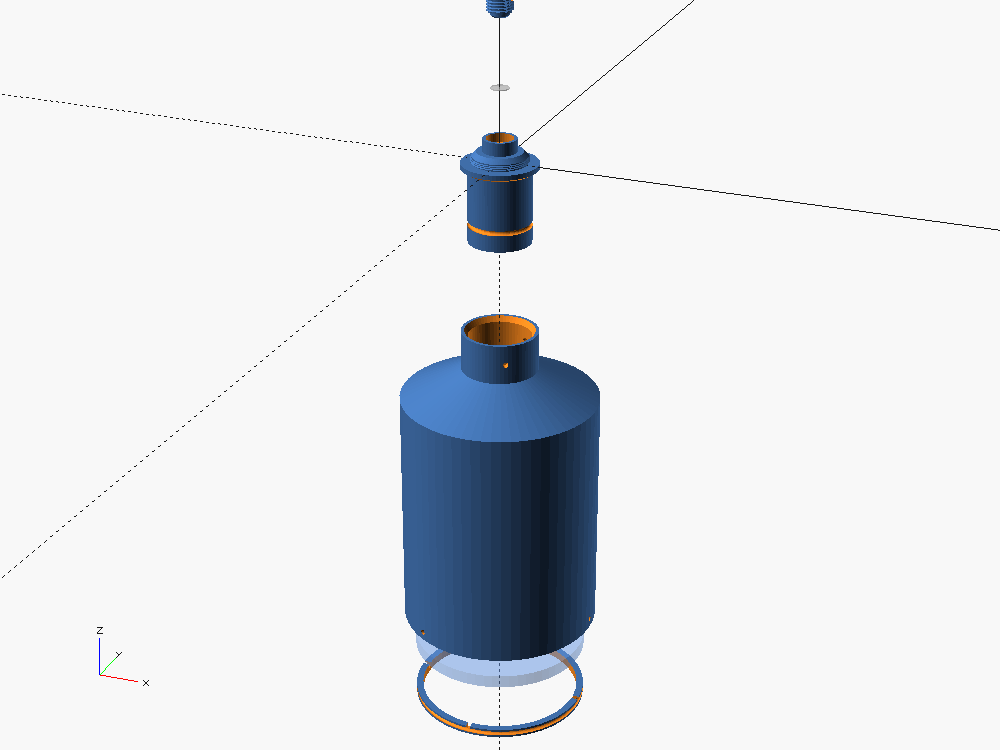
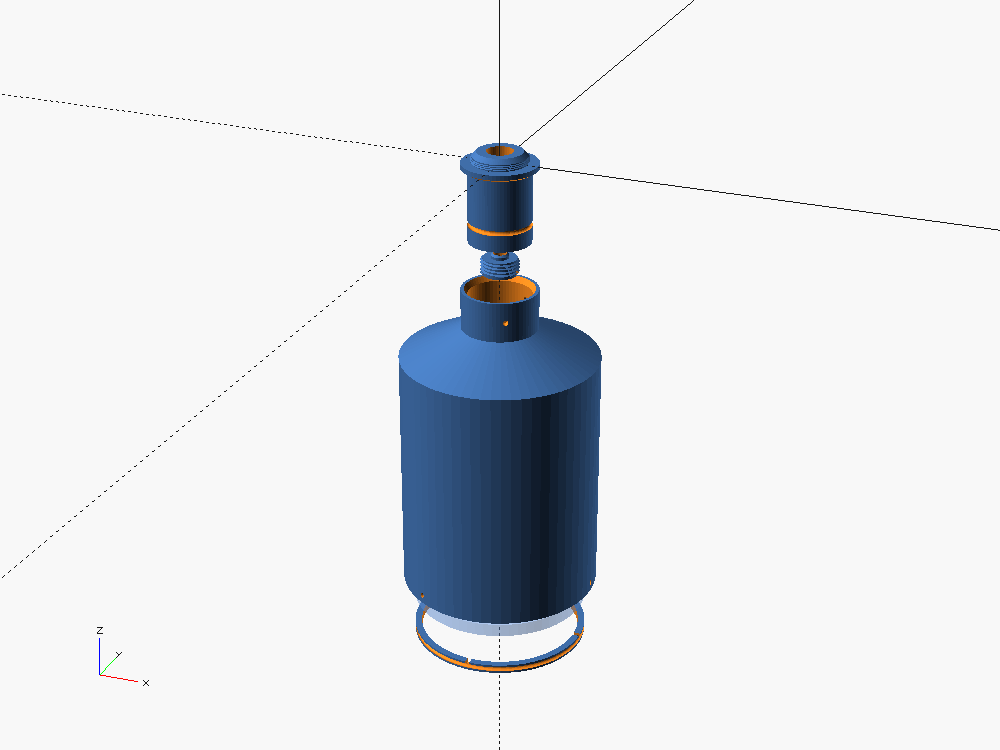
receiver: move the filter cell -Z of the seating plane (nothing into the camera)
The C-mount filter cell projected a Ø15 tube ~10 mm past the flange, through the
front plate's Ø16 bore and into the body cavity. That relied on a specific stock
front plate being clear and broke the body-modularity contract (a variant with a
filter drawer / IR-cut holder / thick plate behind the mount would collide), and
it made the receiver a poor C-mount citizen on non-mapscam cameras.

The filter is only 0.55 mm and the neck has ~30 mm of unused length, so the whole
cell now sits on the -Z (target/barrel) side of the seating plane, cut into the
neck root:

  +Z:  [ Ø12 clear bore through the bare thread ] -> detector   (nothing else +Z)
  -Z:  [ Ø6 field-stop/seat land ][ Ø8 filter ][ ring nose ][ funnel ]
       [ Ø17 retainer thread ] -> neck bore -> barrel

- filter_ring loads and turns from the -Z (barrel) end, down the Ø22 neck bore,
  before the barrel is plugged on. Same "zero clamping stress" nose/shoulder
  geometry, now mirrored.
- Ø17 retainer thread (5.3 mm wall in the neck) replaces the cramped Ø11.5 that
  the old Ø16-bore constraint forced; is_cmount no longer branches the cell.
- Applies to mount = "flange" too — it no longer projects into the body cavity
  either.
- thread_bore_d derived from the marginal-ray cone; new asserts for neck-wall
  fit, thread-wall fit, and cell vs the stem<->barrel joint.
- Dropped the filter_boss_* params; explode_gap 60 -> 40 (smaller stem).

make check green; stem renders 1 connected shell in both mounts; nothing of the
[…]

diff --git a/docs/receiver-optic.md b/docs/receiver-optic.md
@@ -6,9 +6,9 @@ It is its own component **type** (`components/receiver/*.toml`, `scad/lib/receiv
 like `lens`, because none of the camera sensor stack applies.
 
 ```
-  target <--[ Ø80 optic ]===== barrel =====(socket)[ neck ][ 1"-32 ]-- generic_29mm_c -- detector
-             f ≈ 150 mm    Ø90 tube, holds the optic   plugs in,   thread   camera        (BPW34 + AFE)
-                                                       3 screws   z = 0   808 nm filter here
+  target <--[ Ø80 optic ]===== barrel =====(socket)[ neck + filter cell ][ 1"-32 ]-- camera -- detector
+             f ≈ 150 mm    Ø90 tube, holds the optic   plugs in, 3 screws    thread  z = 0   (BPW34 + AFE)
+                                                       808 nm filter lives here (all -Z of z=0)
 ```
 
 The bought **Ø80 mm, f ≈ 150 mm** optic focuses the returned beam through a small
@@ -20,19 +20,21 @@ camera.
 **`mount = "C"` (default).** The `stem` ends in a **male 1"-32 thread** and screws
 straight into a stock `generic_29mm_c` front plate (`lens_mount_style = "thread"`) —
 the receiver is just a C-mount lens, no custom front plate. A Ø`shoulder_d` disc
-gives a finger grip and backstops the thread; the slim filter cell (Ø`filter_boss_d_c`
-≈ 15) passes through the front-plate's Ø16 bore and noses a few mm into the body
-cavity. It seats the same way a mapscam printed C-mount lens does; the camera shim
-stack trims focus. Thread this on **before** plugging the heavy `barrel` onto the
-neck. A Ø90 barrel on a printed 1"-32 thread is a long cantilever — plan on a barrel
-brace for anything but short bench runs, and a dab of thread-locker or a set screw so
-it can't back off under vibration.
+gives a finger grip and backstops the thread. **Nothing of the receiver reaches past
+the seating plane into the camera** — the bare thread is all that goes +Z, and the
+whole filter cell sits at -Z inside the neck root (see below). So the receiver is a
+clean C-mount citizen: it drops onto any C-mount camera, and mapscam body variants
+can put anything they like right behind the front plate. It seats the same way a
+mapscam printed C-mount lens does; the camera shim stack trims focus. A Ø90 barrel
+on a printed 1"-32 thread is a long cantilever — plan on a barrel brace for anything
+but short bench runs, and a dab of thread-locker or a set screw so it can't back off
+under vibration.
 
 **`mount = "flange"`.** The `stem` carries its own front plate — the same
 rectangular register + 4-corner M3 pattern as a camera `front_plate` (a bare
 `generic_29mm` body bolts straight on). Use this when you want the stiff bolted
 joint or a keyed orientation. Set `body_outer_x` / `body_outer_y` to that body's
-footprint.
+footprint. Same filter cell, same "nothing into the cavity" rule.
 
 ## Fixed focus
 
@@ -49,10 +51,11 @@ part and keeps the load path out of any moving joint.
 ## Coordinate convention
 
 Mirror of the camera: **`z = 0` is the seating plane** (the `"C"` shoulder, or the
-`"flange"` front face) that meets the camera, **+Z runs into the camera** (thread,
-filter cell, detector), the optics project to **−Z**, out toward the target.
-`stem.scad` is authored in this frame; `barrel.scad` is authored in its own frame
-(optic rear face at `z = 0`) and `dispatch.scad` places it at `−flange_to_optic`.
+`"flange"` front face) that meets the camera. Only the **bare thread** goes **+Z**
+(then the camera's own detector); the **filter cell and the optics are all at −Z**,
+out toward the target. `stem.scad` is authored in this frame; `barrel.scad` is
+authored in its own frame (optic rear face at `z = 0`) and `dispatch.scad` places it
+at `−flange_to_optic`.
 
 ## The stack (enforced in `scad/lib/receiver/params.scad`)
 
@@ -73,48 +76,51 @@ with it (asserted); push it down and the neck gets stubby.
 
 `assert()`s fail the render if: the clear aperture leaves no seat rim; a wall
 (barrel / stem / socket) is under `wall`; the neck bore vignettes the cone at the
-joint; the filter retainer thread doesn't fit the neck bore; `flange_to_optic`
-is too short for the barrel; or (`mount = "C"`) the filter cell is too fat to clear
-a stock Ø16 front-plate bore.
+joint; the retainer thread + wall don't fit the stem neck; the filter cell runs
+into the stem↔barrel joint; `thread_bore_d` leaves too little wall on the male
+thread; or `flange_to_optic` is too short for the barrel.
 
 ## Parts (`make vibrometer_80mm`)
 
 | Part | Prints | Notes |
 |---|---|---|
-| `stem` | 1 | camera interface (`"C"` male 1"-32 + grip shoulder, or `"flange"` register) + filter cell + Ø28 neck. Print shoulder/flange-down; no support. |
+| `stem` | 1 | camera interface (`"C"` male 1"-32 + grip shoulder, or `"flange"` register) + filter cell in the neck root + Ø28 neck. Print shoulder/flange-down; no support. |
 | `barrel` | 1 | Ø90 × ~145 mm; optic cell + tube + rear socket. Print optic-end-down. Big — budget time / filament. |
 | `lens_retainer` | 1 | plain ring, held by the barrel's 3 radial M3 set screws. |
-| `filter_ring` | 1 | top-hat: a Ø8.1 nose drops onto the filter, the threaded body engages the stem. Turn from the body side. |
+| `filter_ring` | 1 | top-hat: a Ø8.1 nose drops onto the filter, the Ø17 threaded body engages the stem. Turn from the −Z (barrel) end. |
 
 ## 808 nm filter cell
 
 The filter is **Ø8.0 × 0.55 mm glass** (808 nm narrow band-pass, CWL 808 ± 2 nm,
-HBW 25 nm, T > 85 %). It drops into a Ø8.6 pocket from the body-cavity side and
-seats front-face-down on the **Ø6 field stop shoulder** (`filter_clear_d`, which is
-also the FOV stop).
+HBW 25 nm, T > 85 %). The whole cell is cut into the **stem neck root, entirely on
+the −Z (target/barrel) side of the seating plane** — nothing projects toward the
+camera past the bare thread, so any body variant is free to put hardware right
+behind the front plate.
 
-The **`filter_ring`** is a top hat. The stem bore above the seat, going toward the
-body, is: `Ø8.6 pocket` → `funnel` → `Ø`fring_d` internal thread` → clearance → out
-the boss top. Drop the ring in nose-first from the body side and turn it with a flat
-screwdriver (top slot): its threaded body catches the stem thread and winds down. It
-seats when the **`fring_nose_h` = 2.0 mm nose meets the filter back face at the same
-instant the body shoulder bottoms on the funnel step** — so the filter is captured
-with *zero* clamping stress on the thin glass while the thread carries its full
-`fring_engage` engagement. A funnel at the pocket mouth centres the nose; the ring's
-Ø6 bore is the clear aperture. Assemble the whole cell before mounting the stem on
-the camera.
+Reading −Z from the seating plane (`z = 0`):
 
-The cell diameter (`filter_boss_d_c`) is set by `mount`:
+```
+[ Ø thread_bore_d clear bore, through the thread ]   z = 0 .. thread_engage  (+Z, toward detector)
+[ Ø6 field-stop / seat land ]                        z = -0.8 .. 0
+[ Ø8.0 filter ]  seats +Z-face-up on the land        z = -1.35 .. -0.8
+[ filter_ring Ø8.1 nose ]                            z = -3.35 .. -1.35
+[ funnel Ø8.6 -> Ø17 ]                               z = -3.35 .. -1.85
+[ Ø17 retainer thread ]  filter_ring body            z = -6.85 .. -3.35
+[ ring lead-in -> neck bore Ø22 -> barrel ]          z < -6.85
+```
 
-| `mount` | thread `fring_d` | cell Ø | where the cell sits |
-|---|---|---|---|
-| `"C"` | 11.5 (1.25 mm pitch) | ~15 | passes the Ø16 front-plate bore, noses a few mm into the cavity |
-| `"flange"` | 17 (1.5 mm pitch) | ~23 | projects ~7 mm into the body cavity |
+The **`filter_ring`** is a top hat: Ø8.1 nose, Ø17 threaded body, Ø6 through-bore
+(the clear aperture). Drop the filter into the pocket from the **−Z (barrel) end**,
+then wind the ring in behind it with a long flat screwdriver down the Ø22 neck bore
+(turn it before you plug the barrel on). It seats when the **`fring_nose_h` = 2.0 mm
+nose meets the filter face at the same instant the ring body shoulder bottoms on the
+funnel step** — so the filter is captured with *zero* clamping stress on the thin
+glass while the thread carries its full `fring_engage` (3.5 mm) engagement.
 
-Either way the filter itself sits at z ≈ 2 mm — surrounded by the thread, not moved
-off focus. Check the cell clears your AFE PCB / carrier ledge. At ~150 mm from a Ø74
-aperture the marginal ray hits the filter at ≤ 14°, a ~2.5 nm passband shift against
-a 25 nm half-width — negligible.
+The filter sits ~1 mm target-side of focus. At ~150 mm from a Ø74 aperture the
+marginal ray hits it at ≤ 14° — a ~2.5 nm passband shift against a 25 nm half-width,
+negligible (the angle is set by aperture ÷ focal length, so the ±few mm of position
+doesn't matter).
 
 Fasteners: 3 × M3 (stem↔barrel joint, tapped into the socket wall); 3 × M3 set
 screws (lens retainer); `"flange"` only: 4 × M3 into the body inserts.

diff --git a/docs/design-notes.md b/docs/design-notes.md
@@ -119,11 +119,13 @@ rigid tube: a short `stem` (camera interface + filter cell) plugs into the rear 
 long `barrel` (holds the optic) and is pinned with 3 screws. Separate component
 *type* (`components/receiver/*.toml`, `scad/lib/receiver/`). By default (`mount = "C"`)
 the stem ends in a **male 1"-32 thread** and screws straight into a stock
-`generic_29mm_c` front plate — the receiver is just a C-mount lens, no custom plate;
-the slim filter cell passes through the front-plate bore. `mount = "flange"` keeps the
-alternative: the stem carries its own `front_plate`-peer register + M3 pattern and
-bolts to a bare body. Focus control is a planned follow-up (a threaded element cell
-inside the barrel). Full write-up: [receiver-optic.md](receiver-optic.md).
+`generic_29mm_c` front plate — the receiver is just a C-mount lens, no custom plate.
+The 808 nm filter cell sits entirely **−Z of the seating plane** in the neck root, so
+nothing of the receiver reaches past the front plate into the body — body variants
+stay free. `mount = "flange"` keeps the alternative: the stem carries its own
+`front_plate`-peer register + M3 pattern and bolts to a bare body. Focus control is a
+planned follow-up (a threaded element cell inside the barrel). Full write-up:
+[receiver-optic.md](receiver-optic.md).
 
 ## Known limitations of v0.1
 
